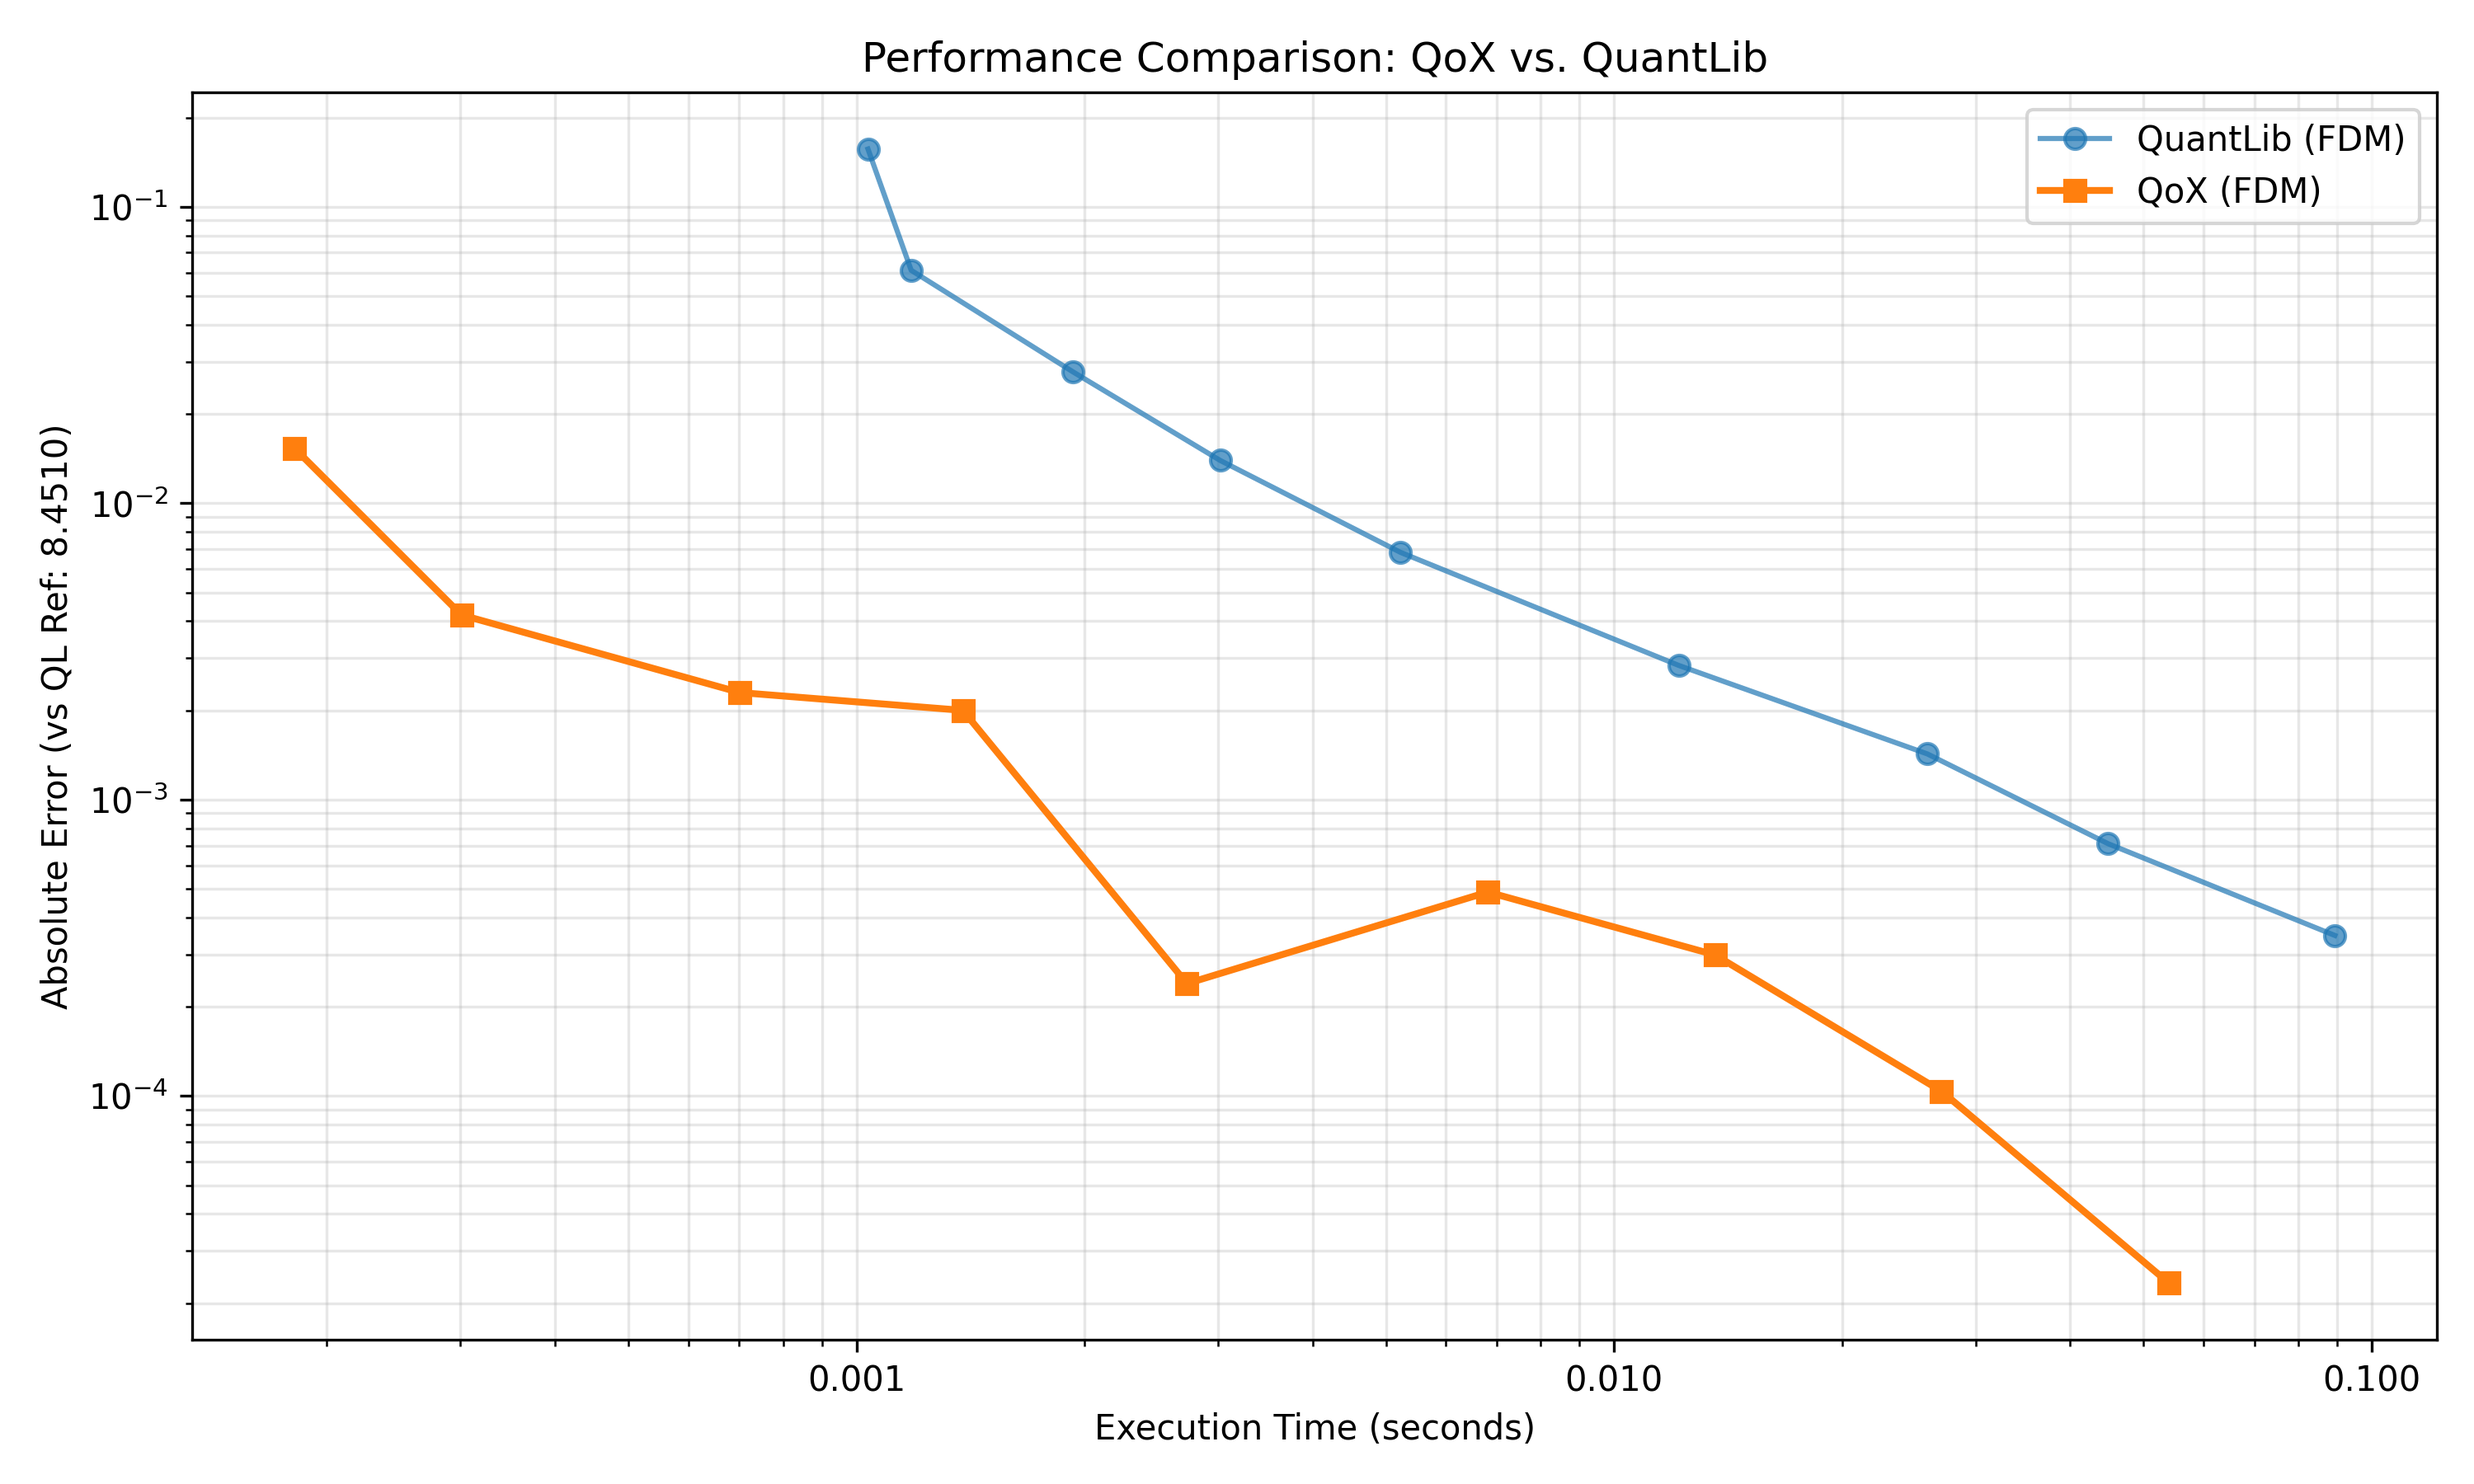
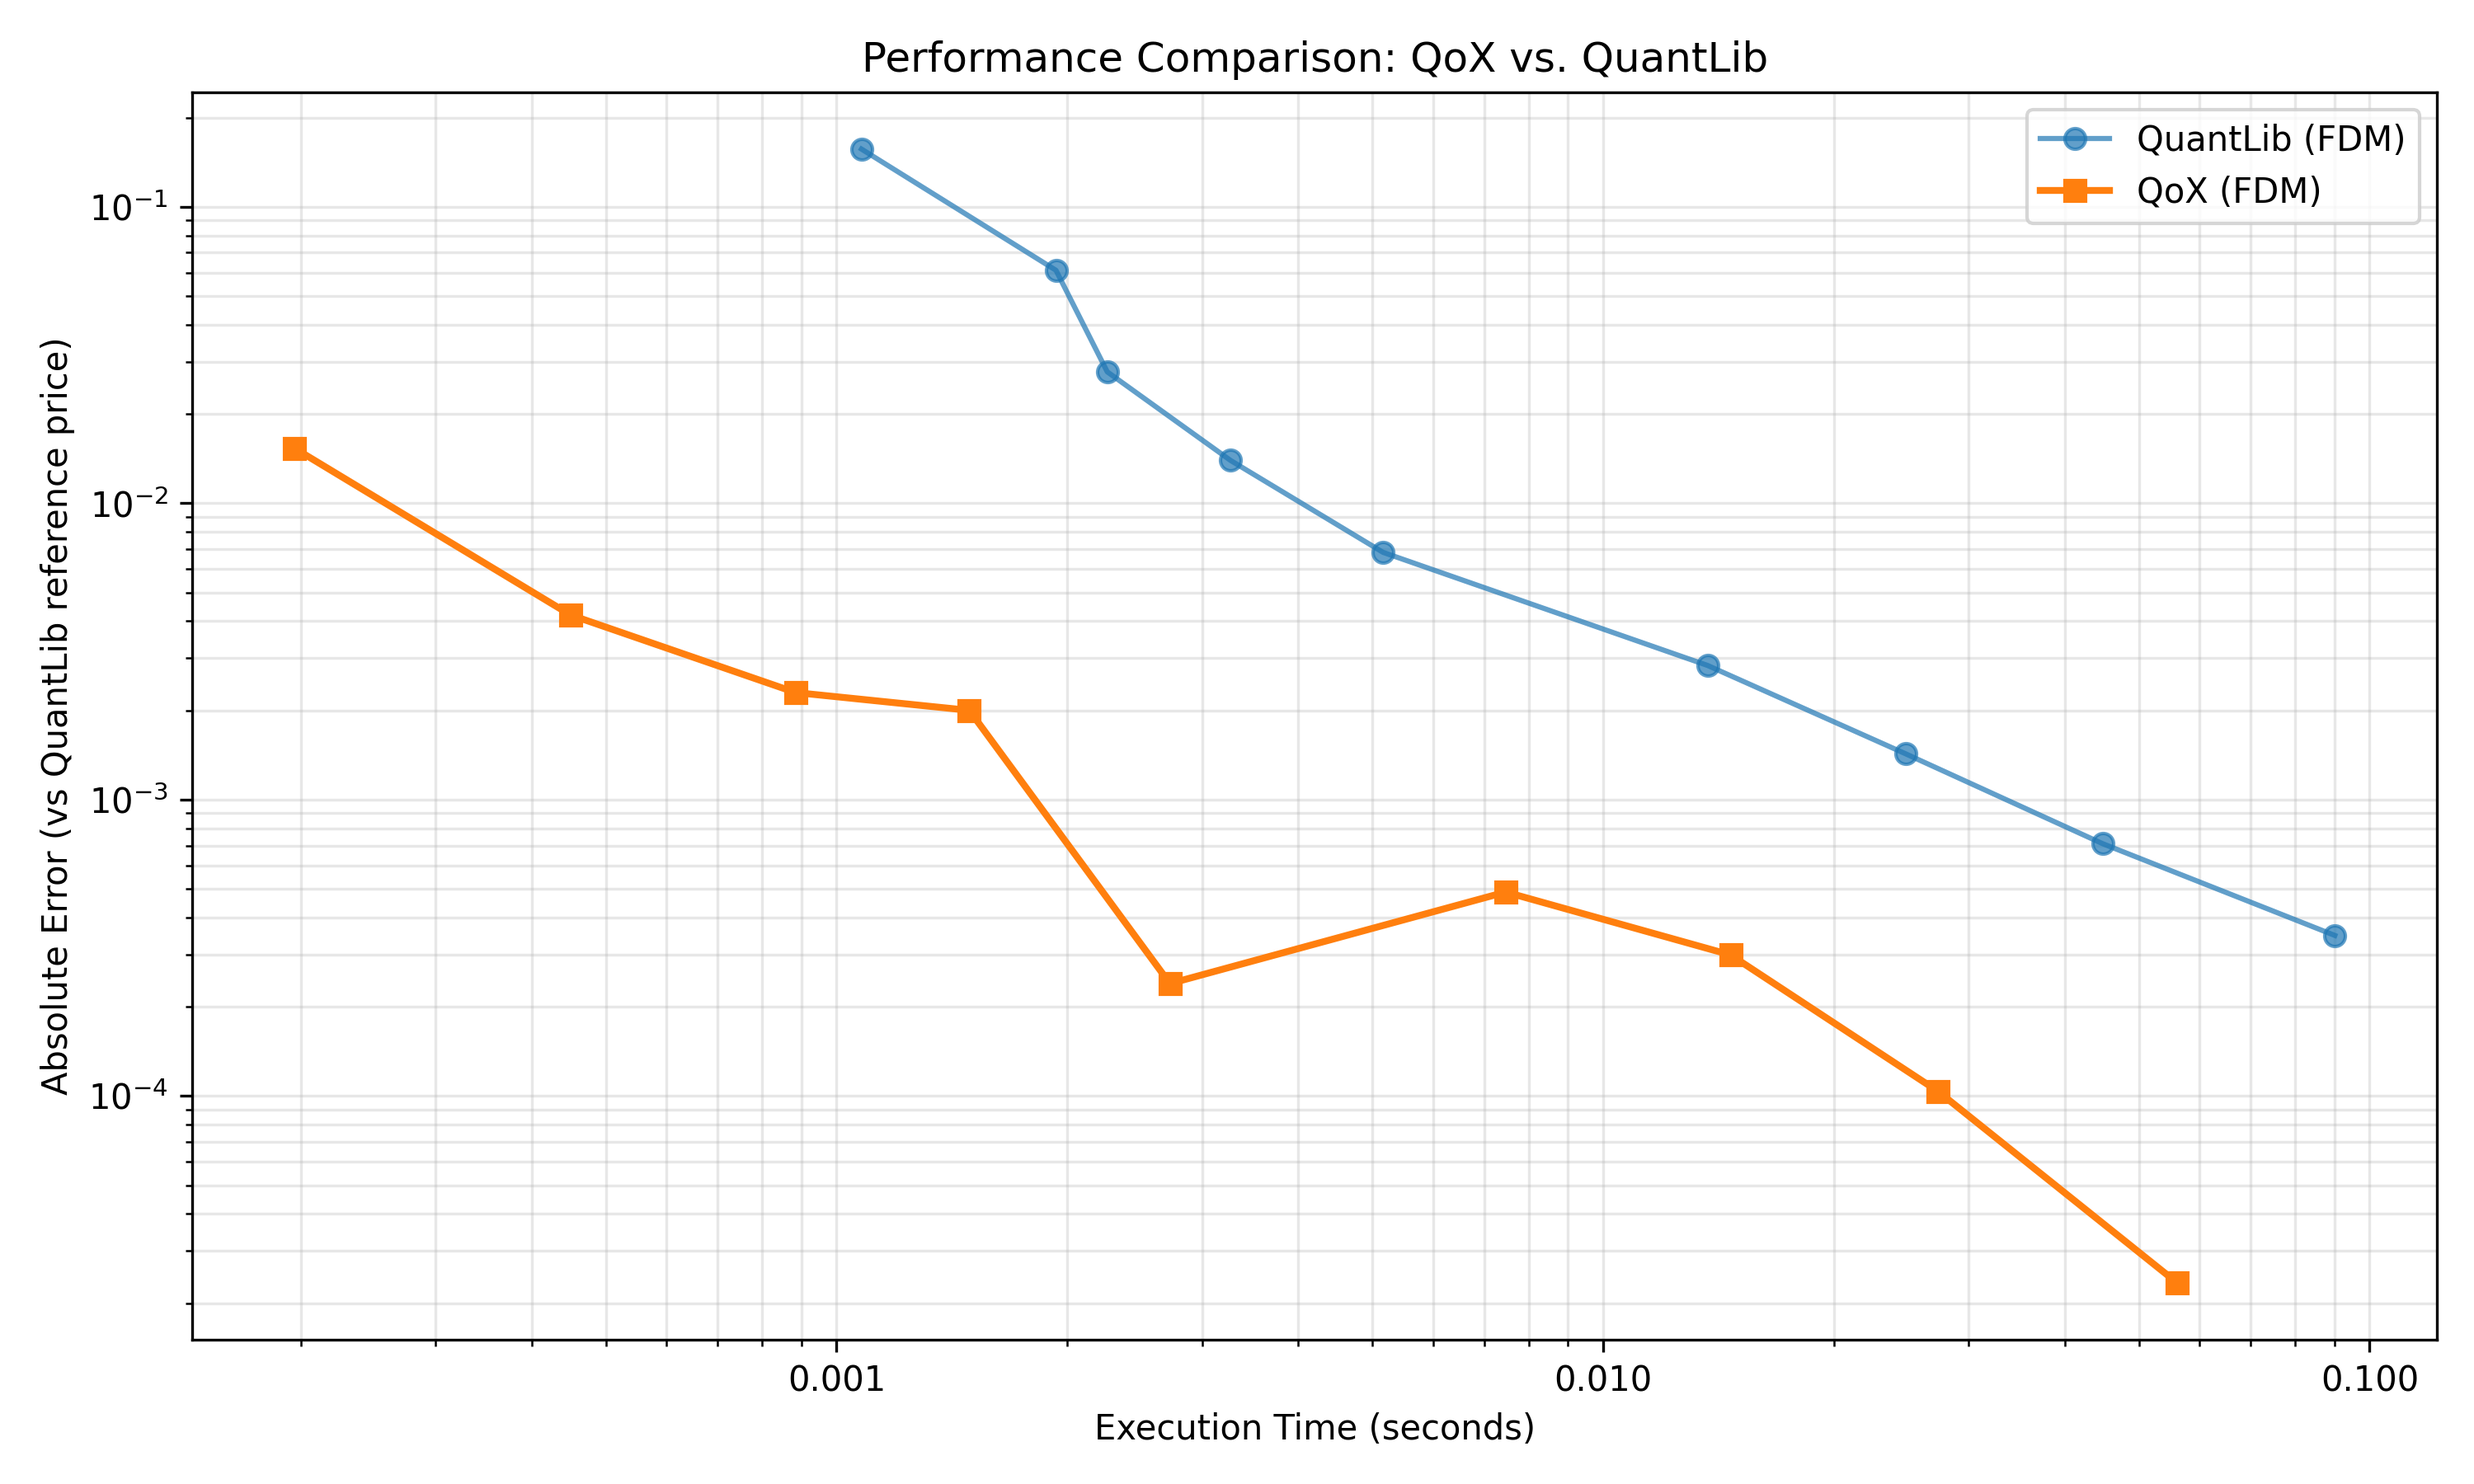
updated benchmark results

diff --git a/benchmarks/fdm_temporal_convergence.py b/benchmarks/fdm_temporal_convergence.py
@@ -2,6 +2,7 @@ import time
 from datetime import datetime, timezone
 
 import matplotlib.pyplot as plt
+import matplotlib.ticker as mticker
 import matplotlib.ticker as ticker
 import QuantLib as ql
 
@@ -139,11 +140,13 @@ ax.loglog(qox_times, qox_errors, "s-", label="QoX (FDM)", color="#ff7f0e", linew
 
 # Axis Formatting
 ax.xaxis.set_major_formatter(ticker.ScalarFormatter())
-ax.xaxis.get_major_formatter().set_scientific(False)
+formatter = ax.xaxis.get_major_formatter()
+if isinstance(formatter, mticker.ScalarFormatter):
+    formatter.set_scientific(False)
 ax.grid(True, which="both", ls="-", alpha=0.3)
 
 plt.xlabel("Execution Time (seconds)")
-plt.ylabel("Absolute Error (vs QuantLib reference price")
+plt.ylabel("Absolute Error (vs QuantLib reference price)")
 plt.title("Performance Comparison: QoX vs. QuantLib")
 plt.legend()
 plt.tight_layout()

diff --git a/README.md b/README.md
@@ -27,15 +27,15 @@ This benchmark compares American Put pricing using Finite Difference Methods (FD
 
 | Steps | QL Latency | QL Error | QoX Latency | QoX Error |
 | :--- | :--- | :--- | :--- | :--- |
-| 5 | 1.49 ms | 1.57e-01 | **272.2 μs** | 1.53e-02 |
-| 10 | 3.66 ms | 6.10e-02 | **938.9 μs** | 4.20e-03 |
-| 25 | 6.36 ms | 2.77e-02 | **2.12 ms** | 2.30e-03 |
-| 50 | 6.14 ms | 1.39e-02 | **2.67 ms** | 2.00e-03 |
-| 100 | 12.58 ms | 6.82e-03 | **5.40 ms** | 2.40e-04 |
-| 250 | 18.24 ms | 2.83e-03 | **9.99 ms** | 4.88e-04 |
-| 500 | 35.94 ms | 1.43e-03 | **19.30 ms** | 2.99e-04 |
-| 1000 | 70.82 ms | 7.10e-04 | **38.99 ms** | 1.04e-04 |
-| 2000 | 148.76 ms | 3.48e-04 | **79.66 ms** | 2.34e-05 |
+| 5 | 1.08 ms | 1.57e-01 | **196.2 μs** | 1.53e-02 |
+| 10 | 1.93 ms | 6.10e-02 | **449.5 μs** | 4.20e-03 |
+| 25 | 2.25 ms | 2.77e-02 | **884.2 μs** | 2.30e-03 |
+| 50 | 3.27 ms | 1.39e-02 | **1.49 ms** | 2.00e-03 |
+| 100 | 5.16 ms | 6.82e-03 | **2.72 ms** | 2.40e-04 |
+| 250 | 13.69 ms | 2.83e-03 | **7.46 ms** | 4.88e-04 |
+| 500 | 24.83 ms | 1.43e-03 | **14.67 ms** | 2.99e-04 |
+| 1000 | 44.84 ms | 7.10e-04 | **27.35 ms** | 1.04e-04 |
+| 2000 | 90.09 ms | 3.48e-04 | **56.16 ms** | 2.34e-05 |
 
 ![FDM Convergence Graph](./benchmarks/fdm_convergence.png)
 
